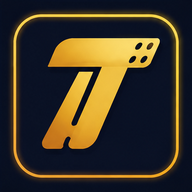
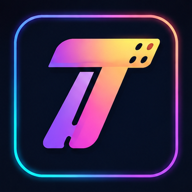
publish from ticketera-app@7a8d6fec8f42ceb386c65b26a80ad8488c2c2bbb (GENERADO — no editar aquí)

diff --git a/index.html b/index.html
@@ -7,13 +7,14 @@
   <meta name="description" content="meeTicket es la ticketera social: compra tu entrada, descubre quién más va, chatea con tus meets y organiza tu grupo antes de que empiece el evento.">
   <!-- QUITAR noindex en el lanzamiento -->
   <meta name="robots" content="noindex, nofollow">
-  <link rel="icon" href="/favicon.png">
+  <link rel="icon" type="image/png" sizes="48x48" href="/favicon.png?v=2">
+  <link rel="apple-touch-icon" sizes="180x180" href="/apple-touch-icon.png?v=2">
 
   <meta property="og:type" content="website">
   <meta property="og:title" content="meeTicket — La ticketera social">
   <meta property="og:description" content="Compra tu entrada y conoce a tu gente. La venta de entradas con una capa social encima.">
   <meta property="og:url" content="https://meeticket.app/">
-  <meta property="og:image" content="https://meeticket.app/icon-512.png">
+  <meta property="og:image" content="https://meeticket.app/icon-512.png?v=2">
 
   <link rel="preconnect" href="https://fonts.googleapis.com">
   <link rel="preconnect" href="https://fonts.gstatic.com" crossorigin>
@@ -26,7 +27,7 @@
       --bg:#0a0a0f; --band:#0c0c13; --card:#12121b;
       --border1:#1b1b26; --border2:#20202e; --border3:#2c2c3a;
       --text:#f4f4f5; --muted:#a1a1ad; --muted2:#8a8a96; --link:#c7c7d1;
-      --accent:#8b5cf6; --magenta:#d0529d; --azul:#5bc3ea; --ok:#34d399; --fecha:#b8a6e8;
+      --accent:#6c63ff; --magenta:#d0529d; --azul:#5bc3ea; --ok:#34d399; --fecha:#b8a6e8;
     }
     *, *::before, *::after { box-sizing: border-box; }
     html { -webkit-text-size-adjust: 100%; }
@@ -37,7 +38,9 @@
     a:hover { color: var(--text); }
     a:focus-visible, button:focus-visible { outline: 2px solid var(--azul); outline-offset: 2px; border-radius: 6px; }
     .wrap { max-width: 1400px; margin: 0 auto; padding: 0 32px; }
-    .wordmark { background: linear-gradient(95deg, var(--azul) 0%, var(--accent) 52%, var(--magenta) 100%); -webkit-background-clip: text; background-clip: text; color: transparent; }
+    /* Gradiente EXACTO del Panel (apps/dashboard globals.css .wordmark), literal y desacoplado de --accent
+       (el stop central del wordmark #7c6cf0 ≠ el índigo del botón #6c63ff). */
+    .wordmark { background: linear-gradient(to right, #22d3ee, #7c6cf0, #ec4899); -webkit-background-clip: text; background-clip: text; color: transparent; }
     .icon { width: 24px; height: 24px; stroke: currentColor; fill: none; stroke-width: 1.8; stroke-linecap: round; stroke-linejoin: round; }
 
     /* ── NAV ── */
@@ -63,11 +66,11 @@
     .cartelera { position: relative; height: 560px; overflow: hidden; background: var(--bg); border-bottom: 1px solid var(--border1); }
     /* Fallback de marca (capa base): se ve mientras carga y si la API falla/vacía */
     .hero-fallback { position: absolute; inset: 0; z-index: 0; display: flex; flex-direction: column; align-items: center; justify-content: center; gap: 20px; text-align: center; padding: 24px;
-      background: radial-gradient(60% 55% at 20% 20%, rgba(91,195,234,0.22), transparent 70%), radial-gradient(55% 50% at 85% 25%, rgba(208,82,157,0.20), transparent 72%), radial-gradient(80% 70% at 55% 100%, rgba(139,92,246,0.26), transparent 78%), linear-gradient(160deg, #0f0b1e, #0a0a14); }
+      background: radial-gradient(60% 55% at 20% 20%, rgba(91,195,234,0.22), transparent 70%), radial-gradient(55% 50% at 85% 25%, rgba(208,82,157,0.20), transparent 72%), radial-gradient(80% 70% at 55% 100%, rgba(108,99,255,0.26), transparent 78%), linear-gradient(160deg, #0f0b1e, #0a0a14); }
     .hero-fallback .fb-word { font-size: 56px; font-weight: 900; letter-spacing: -0.03em; }
     .hero-fallback .fb-sub { color: var(--muted); font-size: 18px; }
     .btn-primary { background: var(--accent); color: #fff; font-weight: 700; font-size: 16px; border-radius: 12px; padding: 15px 26px; display: inline-block; transition: transform .25s ease, background .25s ease, filter .25s ease; }
-    .btn-primary:hover { background: #7c4df0; color: #fff; }
+    .btn-primary:hover { background: #5a52e0; color: #fff; }
 
     .carousel { position: absolute; inset: 0; z-index: 1; }
     .carousel[hidden] { display: none; }
@@ -90,7 +93,7 @@
     .car-prev { left: 20px; } .car-next { right: 20px; }
     .car-dots { position: absolute; bottom: 22px; left: 0; right: 0; z-index: 3; display: flex; gap: 8px; justify-content: center; }
     .car-dot { width: 8px; height: 8px; border-radius: 999px; border: none; background: rgba(255,255,255,0.3); cursor: pointer; padding: 0; }
-    .car-dot.active { background: var(--text); width: 22px; }
+    .car-dot.active { background: var(--accent); width: 22px; }
 
     /* ── PRÓXIMOS EVENTOS ── */
     .section { border-top: 1px solid var(--border1); }
@@ -195,7 +198,7 @@
       .marquee-track { animation: marquee 90s linear infinite; }
       .reveal { opacity: 0; transform: translateY(24px); transition: opacity .6s ease-out, transform .6s ease-out; }
       .reveal.visible { opacity: 1; transform: none; }
-      .ev-card:hover, .mini-card:hover { transform: translateY(-4px); border-color: var(--accent); box-shadow: 0 12px 30px rgba(139,92,246,0.13); }
+      .ev-card:hover, .mini-card:hover { transform: translateY(-4px); border-color: var(--accent); box-shadow: 0 12px 30px rgba(108,99,255,0.13); }
       .btn-primary:hover, .btn-light:hover { transform: scale(1.02); }
       .sk::after { animation: shimmer 1.3s infinite; }
     }

diff --git a/styles.css b/styles.css
@@ -10,17 +10,17 @@
   --text-3: #8a8a96;        /* text-tertiary */
   --border: #1b1b26;        /* border-default */
   --border-strong: #2c2c3a;
-  --primary: #8b5cf6;       /* accent (botones, h3) */
-  --primary-hover: #7c4df0;
-  --primary-active: #6d3ee0;
-  --link: #a78bfa;          /* enlaces de texto */
+  --primary: #6c63ff;       /* accent (botones, h3) — índigo del Panel (apps/dashboard) */
+  --primary-hover: #5a52e0;
+  --primary-active: #4f45d4;
+  --link: #6c63ff;          /* enlaces de texto — acento del Panel */
   --success: #34d399;       /* status-success */
   --danger: #e87272;        /* status-danger */
   --radius-card: 1.25rem;   /* ~bento */
   --radius-ctl: 0.75rem;    /* botones/inputs */
   --shadow-card: 0 2px 24px rgba(0,0,0,0.40), 0 0 0 1px rgba(255,255,255,0.03);
-  /* wordmark meeTicket: mismo gradiente que la landing */
-  --wordmark: linear-gradient(95deg, #5bc3ea 0%, #8b5cf6 52%, #d0529d 100%);
+  /* wordmark meeTicket: gradiente EXACTO del Panel (apps/dashboard globals.css .wordmark) */
+  --wordmark: linear-gradient(to right, #22d3ee, #7c6cf0, #ec4899);
   color-scheme: dark;
 }
 
@@ -43,8 +43,11 @@ body.center { display: flex; justify-content: center; align-items: center; min-h
 
 /* Layouts */
 .container { text-align: center; padding: 40px 24px; max-width: 480px; width: 100%; }
-.container.doc { max-width: 720px; margin: 0 auto; text-align: left; padding: 40px 24px 80px; line-height: 1.7; }
-.container.doc .logo { display: block; text-align: center; }
+.container.doc { max-width: 960px; margin: 0 auto; text-align: left; padding: 40px 24px 80px; line-height: 1.7; }
+/* Cabecera: wordmark centrado SIN subrayado. display:block+width:fit-content (no 'block' a secas): con
+   bg-clip:text, la caja debe ser el ANCHO DEL TEXTO o el gradiente centrado solo revela el tramo central
+   (morado) y se pierden turquesa/rosa — mismo motivo que el inline-block del Panel. */
+.container.doc .logo { display: block; width: fit-content; margin-left: auto; margin-right: auto; text-decoration: none; }
 
 /* Cards / secciones */
 .card { background: var(--card); border: 1px solid var(--border); border-radius: var(--radius-card); box-shadow: var(--shadow-card); padding: 32px 24px; }
@@ -58,7 +61,9 @@ h3 { color: var(--primary); font-size: 16px; margin: 20px 0 8px; }
 .container.doc h2 { margin: 32px 0 12px; padding-bottom: 8px; border-bottom: 1px solid var(--border); }
 p { font-size: 15px; line-height: 1.6; margin-bottom: 16px; color: var(--text-2); }
 .container.doc p, .container.doc li { margin-bottom: 8px; color: var(--text); }
-a { color: var(--link); }
+a { color: var(--link); text-decoration: none; }
+/* Enlaces de texto de los documentos: acento del Panel, subrayado SOLO en hover (botones y wordmark excluidos). */
+.container.doc p a:hover, .container.doc li a:hover, .contact-box a:hover, .doc-footer a:hover { text-decoration: underline; }
 ul { padding-left: 20px; }
 
 /* Botones */
@@ -104,7 +109,7 @@ input:focus { border-color: var(--primary); }
 
 /* Legales: selector de idioma + fecha */
 .lang-switch { text-align: center; margin-bottom: 32px; display: flex; gap: 8px; justify-content: center; }
-.lang-switch button { background: var(--card); border: 1px solid var(--border); color: var(--text-2); padding: 8px 20px; border-radius: var(--radius-ctl); cursor: pointer; font-size: 14px; }
+.lang-switch button { background: var(--card); border: 1px solid var(--border); color: var(--text-2); padding: 8px 20px; border-radius: 999px; cursor: pointer; font-size: 14px; }
 .lang-switch button.active { background: var(--primary); color: #fff; border-color: var(--primary); }
 .date { color: var(--text-3); font-size: 13px; text-align: center; margin-bottom: 24px; }
 

diff --git a/privacy/index.html b/privacy/index.html
@@ -4,7 +4,8 @@
   <meta charset="UTF-8">
   <meta name="viewport" content="width=device-width, initial-scale=1.0">
   <title>meeTicket — Politica de Privacidad / Privacy Policy</title>
-  <link rel="icon" href="/favicon.png">
+  <link rel="icon" type="image/png" sizes="48x48" href="/favicon.png?v=2">
+  <link rel="apple-touch-icon" sizes="180x180" href="/apple-touch-icon.png?v=2">
   <link rel="preconnect" href="https://fonts.googleapis.com">
   <link rel="preconnect" href="https://fonts.gstatic.com" crossorigin>
   <link href="https://fonts.googleapis.com/css2?family=Inter:wght@400;500;600;700;800&display=swap" rel="stylesheet">

diff --git a/terms/index.html b/terms/index.html
@@ -4,7 +4,8 @@
   <meta charset="UTF-8">
   <meta name="viewport" content="width=device-width, initial-scale=1.0">
   <title>meeTicket — Terminos de Uso / Terms of Use</title>
-  <link rel="icon" href="/favicon.png">
+  <link rel="icon" type="image/png" sizes="48x48" href="/favicon.png?v=2">
+  <link rel="apple-touch-icon" sizes="180x180" href="/apple-touch-icon.png?v=2">
   <link rel="preconnect" href="https://fonts.googleapis.com">
   <link rel="preconnect" href="https://fonts.gstatic.com" crossorigin>
   <link href="https://fonts.googleapis.com/css2?family=Inter:wght@400;500;600;700;800&display=swap" rel="stylesheet">

diff --git a/support/index.html b/support/index.html
@@ -4,7 +4,8 @@
   <meta charset="UTF-8">
   <meta name="viewport" content="width=device-width, initial-scale=1.0">
   <title>meeTicket — Soporte</title>
-  <link rel="icon" href="/favicon.png">
+  <link rel="icon" type="image/png" sizes="48x48" href="/favicon.png?v=2">
+  <link rel="apple-touch-icon" sizes="180x180" href="/apple-touch-icon.png?v=2">
   <link rel="preconnect" href="https://fonts.googleapis.com">
   <link rel="preconnect" href="https://fonts.gstatic.com" crossorigin>
   <link href="https://fonts.googleapis.com/css2?family=Inter:wght@400;500;600;700;800&display=swap" rel="stylesheet">
